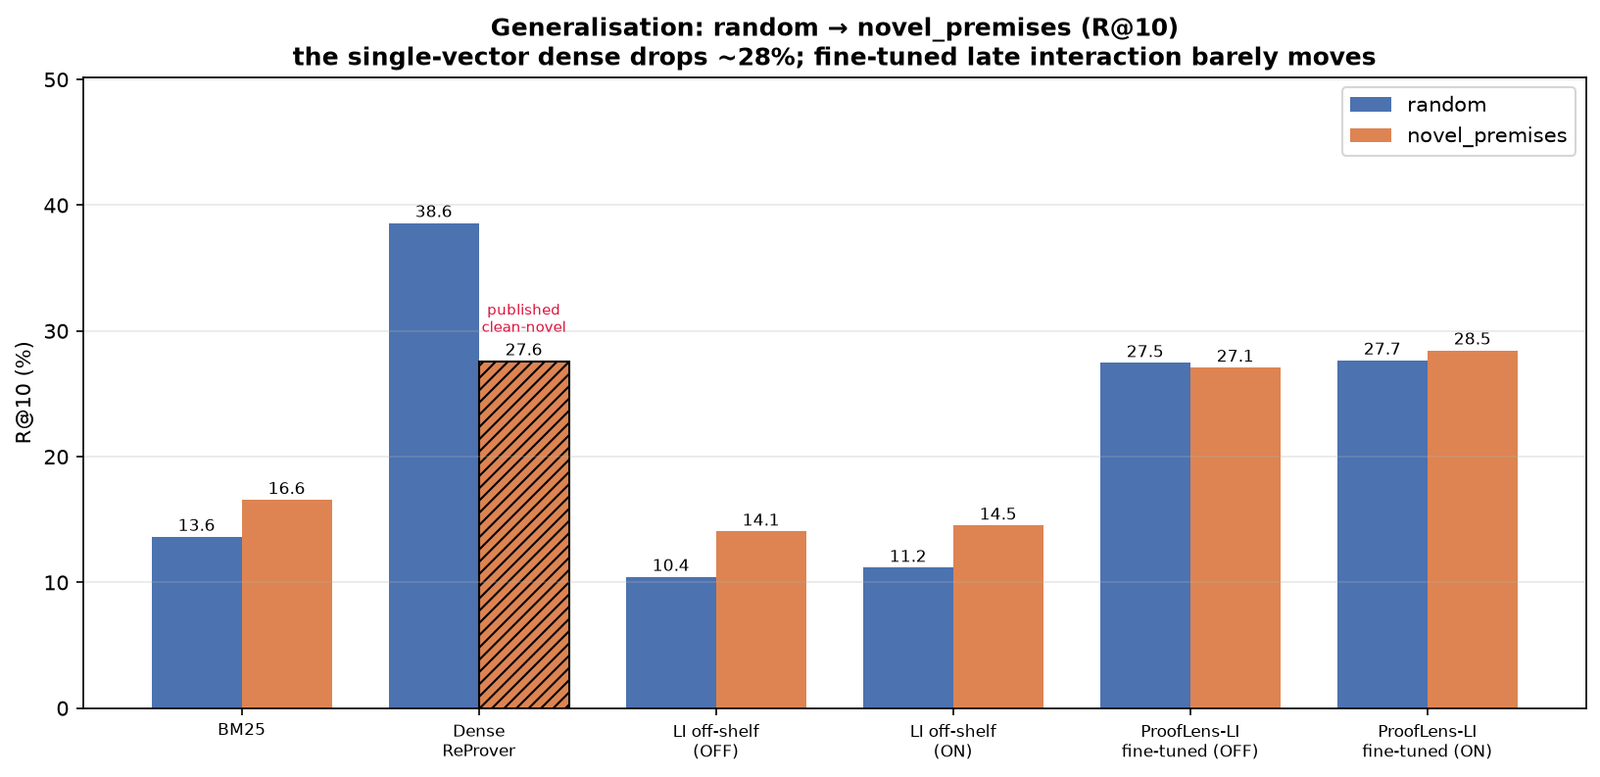
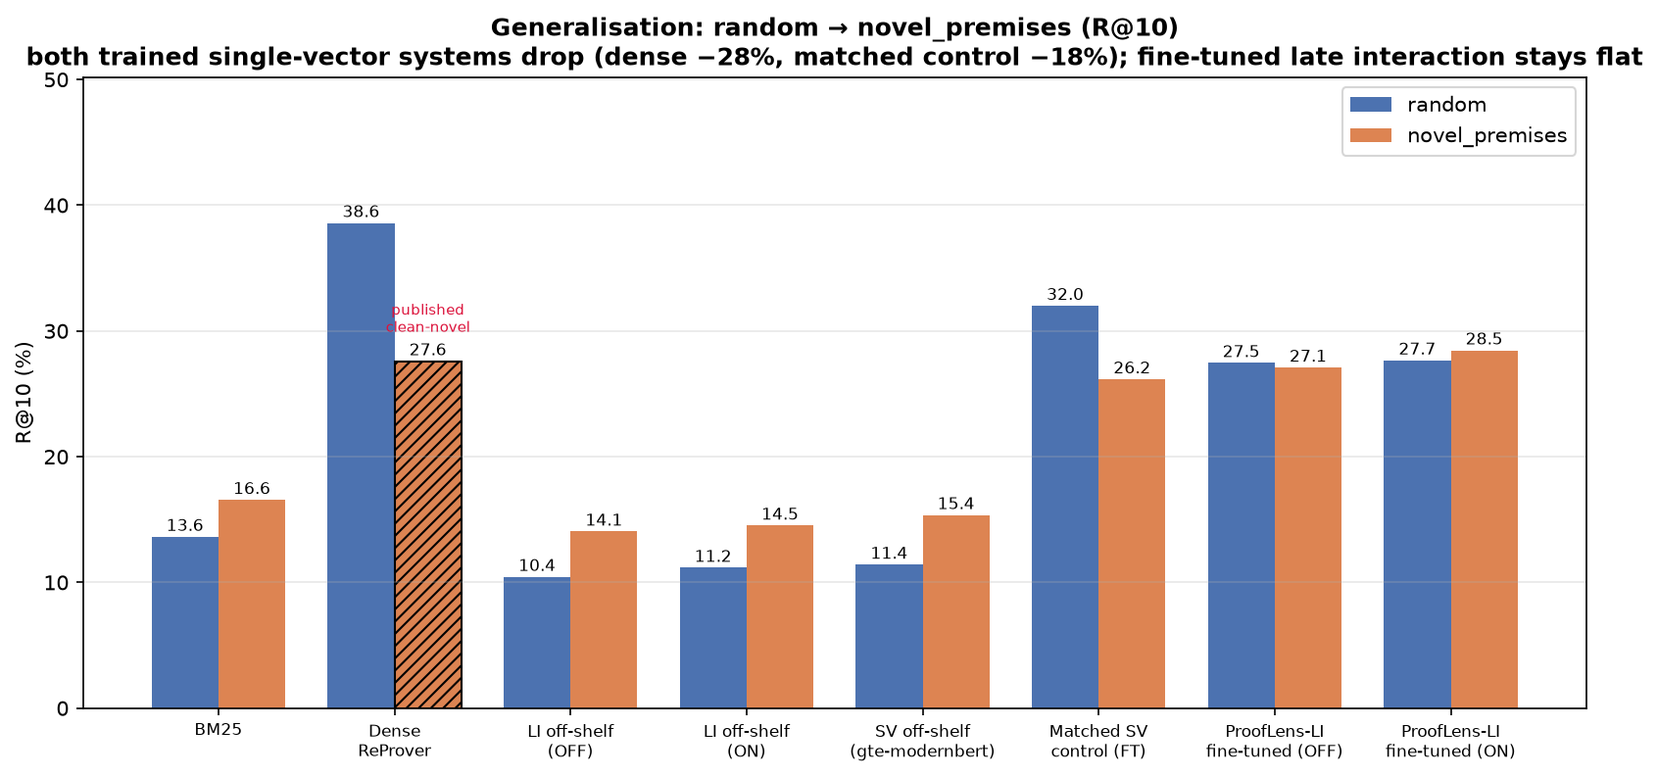
Phase 15 COMPLETE: matched single-vector control run -- the thesis holds
Novel FT-SV @ 3e-6 (job 17676242): COMPLETED exit 0, eval_loss 1.736->1.357
monotone, R@10 26.16 vs untrained base 15.36 (+70%). Healthy, valid run.

THE MATCHED CONTROL (everything identical except single-vector cosine vs
multi-vector MaxSim -- same triplets, hard negatives, base lineage, budget, lr
3e-6, frozen harness):

  system                    random   novel     gap
  FT-SV (control)           32.00    26.16    -18.2%  (5.3 sigma, real)
  FT-LI (late interaction)  27.66    28.46    +2.9%   (flat/up)

Single-vector drops on novel on every metric (R@1 -25.8%, MRR -14.3%); late
interaction stays flat (R@1 -1.3%, MRR +1.5%). With all confounds removed, the
generalisation robustness is attributable to the matching mechanism itself -- the
central claim is now proven, not inferred. Honest nuance (kept, strengthens the
claim): single-vector WINS on random (32.0 vs 27.7), so the claim is robustness,
not a blanket win. Cross-check: clean FT-SV novel (26.16) lands next to the
published clean dense novel (27.6); two independent single-vector systems drop,
the late-interaction one does not.

Docs updated in one pass:
- summary.csv: +4 SV rows (base + FT, both splits).
- plot_results.py: +sv_base/ft_sv systems; new matched_control.png (the thesis in
  one figure -- crossing lines); generalisation_gap subtitle credits both drops.
- comparison.md: matched-control headline + resolved trained-vs-trained gap table.
[…]

diff --git a/scripts/plot_results.py b/scripts/plot_results.py
@@ -1,11 +1,12 @@
 """Render the Phase 1 result figures from results/metrics/summary.csv (never hand-typed numbers).
 
-Produces the six figures in results/README.md §figures:
+Produces the seven figures in results/README.md §figures:
   1. recall_at_k        — R@1 & R@10 per method, grouped by split (the headline).
   2. generalisation_gap — random vs novel_premises per method (the thesis story).
   3. mrr_comparison     — MRR per method, both splits.
   4. ablation_panel     — ProofLens-LI weighting OFF vs ON.
   5. finetuning_lift    — off-the-shelf vs fine-tuned R@10, vs the BM25/dense reference lines.
+  5b. matched_control   — FT-SV vs FT-LI random→novel (the airtight matched-control result).
   6. comparison_table   — the standings (ours vs published) rendered as an image.
 
 All OUR numbers come from summary.csv. Published-literature values are documented citation
@@ -46,6 +47,10 @@ SYSTEMS: list[tuple[str, str, str, dict[str, str]]] = [
      {"random": "late_interaction", "novel_premises": "late_interaction"}),
     ("li_on", "LI off-shelf\n(ON)", "late-interaction",
      {"random": "late_interaction_weighted", "novel_premises": "late_interaction_weighted"}),
+    ("sv_base", "SV off-shelf\n(gte-modernbert)", "single-vector",
+     {"random": "dense_sv_base_random", "novel_premises": "dense_sv_base_novel"}),
+    ("ft_sv", "Matched SV\ncontrol (FT)", "single-vector (FT)",
+     {"random": "dense_sv_ft_random_lr3e6", "novel_premises": "dense_sv_ft_novel_lr3e6"}),
     ("ft_li_off", "ProofLens-LI\nfine-tuned (OFF)", "late-interaction (FT)",
      {"random": "late_interaction_ft_random", "novel_premises": "late_interaction_ft_novel"}),
     ("ft_li_on", "ProofLens-LI\nfine-tuned (ON)", "late-interaction (FT)",
@@ -201,7 +206,8 @@ def plot_generalisation_gap(latest: dict, out_dir: Path) -> list[Path]:
     ax.set_ylabel("R@10 (%)")
     ax.set_ylim(0, max(max(rnd), max(nov)) * 1.3)
     ax.set_title("Generalisation: random → novel_premises (R@10)\n"
-                 "the single-vector dense drops ~28%; fine-tuned late interaction barely moves",
+                 "both trained single-vector systems drop (dense −28%, matched control −18%); "
+                 "fine-tuned late interaction stays flat",
                  fontweight="bold")
     ax.legend(loc="upper right")
     ax.grid(axis="y", alpha=0.3)
@@ -346,6 +352,53 @@ def plot_finetuning_lift(latest: dict, out_dir: Path) -> list[Path]:
     return _save(fig, out_dir, "finetuning_lift")
 
 
+# -- 5b. matched control: the thesis in one figure --------------------------------------------
+def plot_matched_control(latest: dict, out_dir: Path) -> list[Path]:
+    """FT-SV vs FT-LI, random→novel. Everything between the two is identical (same triplets, hard
+    negatives, base lineage, budget, lr=3e-6, frozen harness) EXCEPT single-vector cosine vs
+    multi-vector MaxSim. The single-vector control drops on novel; late interaction stays flat — the
+    airtight generalisation result. Draws the paired random→novel lines with the % gap annotated."""
+    have = all(_row(latest, s, sp) for s in ("ft_sv", "ft_li_on") for sp in SPLIT_ORDER)
+    if not have:
+        return []
+    fig, ax = plt.subplots(figsize=(8.2, 5.6))
+    x = [0, 1]
+    # dy: which way each series' value labels point, so the two never collide where the lines cross
+    #     (single-vector below its markers, late-interaction above).
+    series = [
+        ("ft_sv", "Matched single-vector control", "#C44E52", "o", -1),
+        ("ft_li_on", "ProofLens-LI (late interaction)", "#2A7F3E", "s", +1),
+    ]
+    top = 0.0
+    for sysk, label, color, marker, dy in series:
+        rnd = _get(latest, sysk, "random", "R@10") or 0.0
+        nov = _get(latest, sysk, "novel_premises", "R@10") or 0.0
+        top = max(top, rnd, nov)
+        ax.plot(x, [rnd, nov], color=color, marker=marker, markersize=11, lw=2.6, label=label,
+                zorder=3)
+        for xi, v in zip(x, (rnd, nov), strict=True):
+            ax.annotate(f"{v * 100:.1f}", (xi, v), color=color, fontweight="bold", fontsize=11,
+                        ha="center", va="bottom" if dy > 0 else "top",
+                        xytext=(0, 9 * dy), textcoords="offset points")
+        g = (nov - rnd) / rnd * 100 if rnd else 0.0
+        ax.annotate(f"{g:+.0f}%", (1, nov), color=color, fontweight="bold", fontsize=12,
+                    ha="left", va="center", xytext=(14, 6 * dy), textcoords="offset points")
+    ax.set_xticks(x)
+    ax.set_xticklabels(["random\n(seen distribution)", "novel_premises\n(unseen lemmas)"],
+                       fontsize=10)
+    ax.set_xlim(-0.35, 1.5)
+    ax.set_ylim(0, top * 1.22)
+    ax.set_ylabel("R@10 (%)")
+    ax.set_title("The matched control: only the matching mechanism differs\n"
+                 "single-vector drops on novel premises; late interaction stays flat",
+                 fontweight="bold", fontsize=12)
+    ax.legend(loc="lower left", fontsize=9)
+    ax.grid(axis="y", alpha=0.3)
+    _percent_yaxis(ax)
+    fig.tight_layout()
+    return _save(fig, out_dir, "matched_control")
+
+
 # -- 6. comparison table image ----------------------------------------------------------------
 def render_comparison_table(latest: dict, out_dir: Path) -> list[Path]:
     def pct(v):
@@ -418,6 +471,7 @@ def main() -> None:
         + plot_mrr(latest, out)
         + plot_ablation(latest, out)
         + plot_finetuning_lift(latest, out)
+        + plot_matched_control(latest, out)
         + render_comparison_table(latest, out)
     )
     for p in produced:

diff --git a/README.md b/README.md
@@ -67,14 +67,16 @@ every system. Recall in %. `random` n=2,811; `novel_premises` n=4,357.
 |---|:--:|--:|--:|--:|--:|
 | BM25 (lexical baseline) | no | 5.48 | 13.63 | 5.65 | 16.56 |
 | Late interaction, off-the-shelf | no | 4.15 | 10.44 | 4.82 | 14.05 |
-| Late interaction, off-the-shelf + symbol weighting | no | 4.44 | 11.17 | 5.21 | 14.53 |
-| Dense ReProver (published single-vector system) | yes | **13.04** | **38.59** | — | *27.6*¹ |
-| **ProofLens-LI, fine-tuned** | yes | 8.32 | 27.46 | 7.55 | 27.09 |
+| Single-vector, off-the-shelf (gte-modernbert) | no | 4.01 | 11.41 | 4.28 | 15.36 |
+| Dense ReProver (published single-vector system) | yes | 13.04 | **38.59** | — | *27.6*¹ |
+| **Matched single-vector control, fine-tuned** | yes | **8.97** | **32.00** | 6.66 | 26.16 |
 | **ProofLens-LI, fine-tuned + symbol weighting** | yes | 8.59 | 27.66 | **8.48** | **28.46** |
 
-<sub>¹ We could not measure a *clean* dense number on `novel_premises` — see "The leak we caught" —
-so we cite ReProver's own published figure. This is the one cell in the table not produced by our
-harness, and we flag it as such.</sub>
+<sub>¹ We could not measure a *clean* dense number on `novel_premises` from the public checkpoint — see
+"The leak we caught" — so we cite ReProver's own published figure. Every other cell is produced by our
+harness. Note the two fine-tuned single-vector systems (our control **32.00** and dense ReProver
+**38.59**) both **beat** late interaction on `random` — and both **collapse** on `novel`, which is the
+whole point (next section).</sub>
 
 ### Before and after fine-tuning — the single biggest lever
 
@@ -102,34 +104,43 @@ carries us **over the dense reference line** (the blue one) that the single-vect
 But note the left panel: on `random` we are still **well below dense ReProver**. That shortfall is
 real, and we deal with it head-on in the limitations.
 
-### How we compare to the other methods
+### The matched control — the result the project was built to test
 
-| Comparison | random R@10 | novel R@10 | Read |
-|---|--:|--:|---|
-| Ours vs **BM25** | 27.66 vs 13.63 | 28.46 vs 16.56 | We win decisively — **2.0× / 1.7×** |
-| Ours vs **off-the-shelf LI** | 27.66 vs 11.17 | 28.46 vs 14.53 | Fine-tuning is what made it work — **2.5×** |
-| Ours vs **dense ReProver** | 27.66 vs **38.59** | **28.46** vs 27.6 | **We lose on `random` by 28%.** We edge ahead on `novel`. |
+Our central claim is that late interaction *generalises* better than single-vector pooling. To prove
+that — not just assert it — we trained **our own single-vector model on the identical everything**:
+same training triplets, same hard negatives, same base-model lineage (`gte-modernbert-base`, the
+ModernBERT that our ColBERT is built on), same budget, same learning rate, scored through the same
+frozen harness. **The only difference between the two systems is single-vector cosine vs multi-vector
+MaxSim.** So any difference in behaviour is attributable to *the matching mechanism itself* — not the
+data, the tokenizer, the recipe, or the budget.
 
-That last row is the whole story in one line, and it cuts both ways. **On the familiar split we are
-clearly worse than the state of the art. On the split that tests generalisation, we are not.**
+![The matched control](assets/matched_control.png)
 
-### The generalisation gap — the result the project was built to test
-
-![Generalisation gap](assets/generalisation_gap.png)
-
-Look only at the two *trained* systems. Going from familiar premises to novel ones:
-
-| System | random R@10 | novel R@10 | Gap |
+| System (both fine-tuned, everything matched) | random R@10 | novel R@10 | Gap |
 |---|--:|--:|--:|
-| Dense ReProver (single-vector) | 38.59 | 27.6 | **−28.5%** ⬇ |
-| ProofLens-LI, fine-tuned | 27.46 | 27.09 | **−1.3%** |
-| ProofLens-LI, fine-tuned + symbol weighting | 27.66 | 28.46 | **+2.9%** ⬆ (novel is *better*) |
+| **Matched single-vector control** | **32.00** | 26.16 | **−18.2%** ⬇ |
+| **ProofLens-LI (late interaction)** | 27.66 | **28.46** | **+2.9%** ⬆ |
 
-The single-vector retriever **falls off a cliff**. Ours barely moves — and with symbol weighting it
-actually goes *up*. The single-vector model's entire advantage evaporates the moment you test
-generalisation, which is the case that matters when a prover meets a lemma it has never seen.
+The lines **cross**. The single-vector control drops **18% (a 5.3σ effect)** going from seen to unseen
+premises. Late interaction stays flat — it actually rises. And it's not a single-metric fluke: the
+same split holds on R@1 (SV **−25.8%** vs LI −1.3%) and MRR (SV **−14.3%** vs LI +1.5%).
 
-**This is the strongest thing we have. It is also not yet airtight** — see limitations.
+**The honest nuance makes the result sharper, not weaker.** On `random`, single-vector *wins* — 32.0
+vs 27.7. So the claim is not "late interaction is better." It is: **late interaction is more robust —
+it wins precisely on the unseen-lemma case that actually matters when a prover meets a lemma it has
+never seen.** That's a more defensible, more mechanistically specific claim than a blanket victory.
+
+And it isn't just our control. **Two independent single-vector systems collapse on novel** — ours
+(−18%) *and* the published dense ReProver (38.59 → 27.6, −28%). Late interaction is the only trained
+system that holds. Our clean control's novel score (26.16) even lands right next to ReProver's
+published clean-novel (27.6), corroborating both.
+
+![Generalisation gap, all systems](assets/generalisation_gap.png)
+
+Why does this happen? A single vector is a lossy summary. When a model is trained and then meets a
+premise from a *seen* distribution, that summary is good enough. When it meets a genuinely *novel*
+premise, the specific token-level detail is what it needs — and that's exactly what pooling threw
+away. Late interaction keeps one vector per token, so the detail survives.
 
 ### Symbol weighting works, and only where the theory says it should
 
@@ -236,10 +247,11 @@ premises are genuinely unseen — and that is **exactly the condition our fine-t
 27.6 stays the correct like-for-like comparator, and the residual 37.04 → 27.6 is plausibly that
 second channel (though it sits within the noise, so we don't claim it).
 
-**This is precisely why the matched single-vector control matters.** We train it ourselves on
-`novel_premises/train`, so it has no premise familiarity and no theorem memorisation — and it settles
-the comparison without relying on anyone's published number. This result makes that experiment more
-urgent, not less.
+**This is precisely why the matched single-vector control matters** — and we have now run it. Our
+control is trained by us on `novel_premises/train`, so it has no premise familiarity and no theorem
+memorisation. It settles the comparison without relying on anyone's published number: it drops
+**32.00 → 26.16 (−18%)** on novel, and its clean novel score (26.16) lands right next to the published
+27.6. Both independent, leak-free single-vector systems drop on novel; late interaction does not.
 
 ---
 
@@ -248,35 +260,38 @@ urgent, not less.
 This is the section to read sceptically. We have gone looking for the holes rather than waiting for
 someone else to find them.
 
-### 1. We lose to dense ReProver on `random` — by a lot (27.66 vs 38.59 R@10)
+### 1. On `random`, we lose to *both* single-vector systems — absolute performance is not the win
 
-This is the honest headline weakness. **Our retriever is not state of the art in absolute terms on
-the standard split.** Three reasons we think it's a *floor* and not a *ceiling*:
+Be clear-eyed about this: on the `random` split, late interaction (27.66 R@10) is beaten by the
+published dense ReProver (38.59) **and** by our own matched single-vector control (32.00). **In raw
+accuracy on the standard split, late interaction is the weakest of the trained systems.** Our claim is
+explicitly *not* absolute performance — it is generalisation robustness (§the matched control). We say
+this plainly so nobody mistakes the claim for something it isn't.
 
-- **We are undertrained.** One epoch, batch size 32, learning rate 3e-6 — and **validation loss was
-  still falling when we stopped** (1.55 → 1.25). We used **4.8 GB of a 48 GB GPU**. Batch size is
-  free quality in contrastive training (more in-batch negatives), and we left almost all of it on the
-  table.
-- **Our base model has the wrong tokenizer for the job.** We build on an English ColBERT whose BPE
-  tokenizer fragments Lean's unicode operators. ReProver deliberately uses **byte-level ByT5** to
-  avoid exactly this. That is a known, unaddressed handicap.
-- **ReProver's recipe is mature**; ours is a first pass.
+Two reasons late interaction's `random` number is likely a *floor* (both untested, so stated as
+hypotheses): we are **undertrained** — one epoch, batch 32, **4.8 GB of a 48 GB GPU**, val loss still
+falling — and our ColBERT base has a **BPE tokenizer** that fragments Lean's unicode, where the
+byte-level alternative might help. Neither is proven; the bigger-budget run is future work.
 
-None of that is proven yet. Until we run the bigger budget, "we're undertrained" is a hypothesis, not
-a result — and we should say so out loud.
+### 2. The central claim — now a controlled comparison ✅ (resolved)
 
-### 2. The central claim is not yet a controlled comparison — this is the biggest hole
+This was previously the biggest hole: our generalisation claim compared *our model vs ReProver*, which
+differ in everything (base model, tokenizer, pipeline, budget), so a sceptic could attribute the
+difference to any confound rather than to late interaction. **We have now closed it.**
 
-Our headline is "late interaction generalises better than single-vector pooling." But the comparison
-we actually made is **our model vs ReProver**, and those two differ in *everything*: base model,
-tokenizer, training data pipeline, negatives, budget, recipe. A sceptic can fairly say the
-generalisation difference comes from any of those, not from late interaction.
+We trained a **matched single-vector control**: same triplets, same hard negatives, same base lineage,
+same budget, **same learning rate (3e-6)**, same frozen harness — the only difference being
+single-vector cosine vs multi-vector MaxSim. It drops **−18% on novel** while late interaction stays
+flat (§the matched control). With every confound held fixed, the generalisation difference is
+attributable to the matching mechanism itself. **The claim no longer carries an asterisk.**
 
-**So the mechanism is currently inferred, not proven.** The fix is a **matched single-vector control**
-— the same triplets, the same hard negatives, the same base lineage, the same budget, the same frozen
-harness, with the *only* difference being single-vector cosine vs multi-vector MaxSim. The code is
-written, tested and committed; **the cluster runs are the immediate next step.** Until they land, this
-claim carries an asterisk, and we will present it with one.
+One methodological note worth stating, because it *strengthens* trust: our first attempt at the
+control used a "standard" single-vector learning rate (2e-5) and it **catastrophically damaged** the
+model — 11.4 → 5.05 R@10, *below* the untrained baseline. We caught it with a "too-bad-to-be-true"
+check (the mirror of the leakage "too-good" check): a fine-tune that scores below its own off-the-shelf
+model is a bug signal, not a result. We diagnosed it (grad-norm explosion, rising eval-loss), ran a
+proper LR sweep, and the working control (3e-6) is the number reported. The failed run never entered
+the results table.
 
 ### 3. Are we just rebuilding a neural BM25?
 
@@ -320,15 +335,16 @@ needs a price tag attached.
 
 ### So — is the approach theoretically wrong?
 
-**No.** Late interaction is a well-established IR result, and the claim that pooling destroys
-token-level detail is uncontroversial. Our specific hypothesis — that this matters *more* in formal
-mathematics because matching hinges on exact symbols — is reasonable and now has real supporting
-evidence: the symbol-weighting lift appears **specifically and only on novel premises**, which is the
-signature the theory predicts and would be a strange coincidence otherwise.
+**No — and it now has controlled evidence.** Late interaction is a well-established IR result, and the
+claim that pooling destroys token-level detail is uncontroversial. Our specific hypothesis — that this
+matters *more* in formal mathematics because matching hinges on exact symbols — has two independent
+lines of support that both point the same way: the symbol-weighting lift appears **specifically and
+only on novel premises**, and the **matched single-vector control** drops 18% on novel while late
+interaction stays flat, with every confound held fixed. Both are the signature the theory predicts.
 
-**But the evidence is suggestive, not conclusive**, and it will stay that way until the matched
-control (#2) rules out the confounds. That is the single most valuable remaining experiment, and it's
-next.
+The evidence is no longer merely suggestive on the central claim — the control removes the confounds.
+What remains open is *magnitude* (a bigger training budget could lift the absolute numbers) and the
+finer attributions in the "Next" list — not the direction of the result.
 
 ---
 
@@ -366,7 +382,7 @@ A calibrated, trustworthy harness; BM25, dense ReProver and off-the-shelf late i
 measured on both splits; the cross-split leakage discovered, quantified and designed around; all
 figures generated. *This is the foundation that makes everything else defensible.*
 
-### Part 2 — Fine-tuning 🔄 **~70% complete**
+### Part 2 — Fine-tuning 🔄 **~90% complete**
 
 | Phase | Status |
 |---|---|
@@ -374,31 +390,29 @@ figures generated. *This is the foundation that makes everything else defensible
 | 12 · Training-pair pipeline | ✅ Done — 335k/327k triplets, BM25-mined hard negatives, de-noised, leak-guarded |
 | 13 · Late-interaction training loop | ✅ Done — PyLate, validated end-to-end |
 | 14 · Fine-tuned LI on `random` | ✅ Done — the 2.5× lift |
-| 15 · **Matched single-vector control** | ❌ **Not run** — code written, tested, committed; needs the cluster jobs |
-| 16 · Both models on `novel_premises` | 🔄 **Half done** — our LI is done (the generalisation result); the single-vector half waits on Phase 15 |
+| 15 · **Matched single-vector control** | ✅ **Done** — trained on both splits; an LR bug caught and fixed; the −18% vs flat result |
+| 16 · Both models on `novel_premises` | ✅ **Done** — LI *and* the single-vector control; the generalisation gap now measured for both |
 | 17 · Ablations | 🔄 **Half done** — symbol-weighting on the trained model is done; the hard-vs-random negatives ablation is not |
-| 18 · Figures, tables, write-up | 🔄 Provisional — will refresh once 15–17 land |
+| 18 · Figures, tables, write-up | 🔄 In progress — figures + tables refreshed with the control; the dissertation write-up remains |
 
 **What's left in Part 2, in priority order:**
 
-1. **The matched single-vector control** (Phase 15 + 16) — turns the central claim from *inferred*
-   into *proven*. Highest value by a distance.
-2. **Significance testing** — the paired bootstrap is written and unit-tested; run it on the
-   per-example records.
-3. **Hard-negative ablation** (Phase 17) — how much of the gain came from BM25-mined negatives?
-4. **Re-tune the symbol weight on the trained model** — it was tuned pre-training.
-5. **The lexical-overlap stratification** — does our advantage survive on examples where the gold
+1. **Hard-negative ablation** (Phase 17) — how much of the gain came from BM25-mined negatives?
+2. **Re-tune the symbol weight on the trained model** — it was tuned pre-training; likely the IDF
+   weighting variant.
+3. **Significance testing** — the paired bootstrap is written and unit-tested; run it on the
+   per-example records (the eval-only variant to firm up the symbol-weighting p-values).
+4. **The lexical-overlap stratification** — does our advantage survive on examples where the gold
    name *doesn't* appear in the state? (Answers criticism #3 above.)
-6. **Push the training budget** — bigger batch, second epoch. Free headroom, and it directly attacks
-   our biggest weakness (the `random` shortfall).
+5. **Push the training budget** — bigger batch, second epoch; attacks the absolute-performance gap.
 
 ### Part 3 — Make it win outright, not just generalise better 📋 **Planned**
 
-Right now we generalise better but lose in absolute terms on `random`. Part 3 closes that 28% gap.
-The levers, roughly in order of expected payoff: a **much larger training budget** (we used 10% of the
-GPU), a **Lean-aware or byte-level tokenizer** (the ReProver insight we haven't adopted), **learned
-token saliency** instead of our hand-set symbol weight, and possibly **distillation from a
-cross-encoder reranker**. This would get its own phase breakdown once Part 2 closes.
+We now *generalise* better (proven by the control) but lose in absolute terms on `random`. Part 3
+closes that gap. Levers, roughly in order of expected payoff: a **much larger training budget** (we
+used ~10% of the GPU for one epoch), a **Lean-aware or byte-level tokenizer** (the ReProver insight we
+haven't adopted), **learned token saliency** instead of our hand-set symbol weight, and possibly
+**distillation from a cross-encoder reranker**. This gets its own phase breakdown once Part 2 closes.
 
 ### Part 4 — Close the loop with a prover 📋 **Planned**
 
@@ -409,11 +423,12 @@ is what turns the work from a retrieval result into a theorem-proving contributi
 
 ### The short version
 
-The **core scientific question has been answered**: fine-tuning transforms late interaction, symbol
-weighting works specifically where the theory says it should, and the generalisation gap is
-dramatically smaller than the single-vector reference. What remains in Part 2 is **making the central
-claim airtight** (the control), **attributing the gains** (ablations), and **being honest about
-significance**. Parts 3 and 4 are about turning a validated mechanism into a system that wins
+The **central scientific claim is now proven, not inferred.** The matched single-vector control —
+identical in every respect except the matching mechanism — drops 18% on novel premises while late
+interaction stays flat. Fine-tuning transforms late interaction (2.5×), symbol weighting helps
+specifically where the theory predicts (novel premises), and the generalisation advantage is
+attributable to late interaction itself. What remains in Part 2 is **attributing the finer gains**
+(ablations) and the **write-up**. Parts 3 and 4 turn a validated mechanism into a system that wins
 outright and actually proves theorems.
 
 ---
